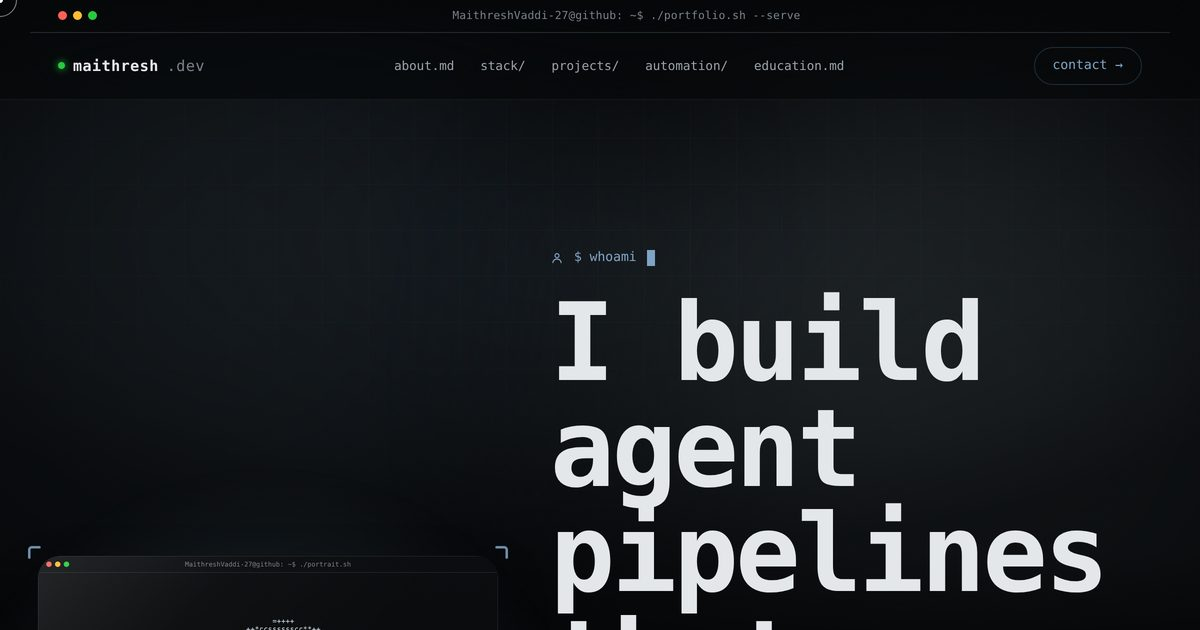
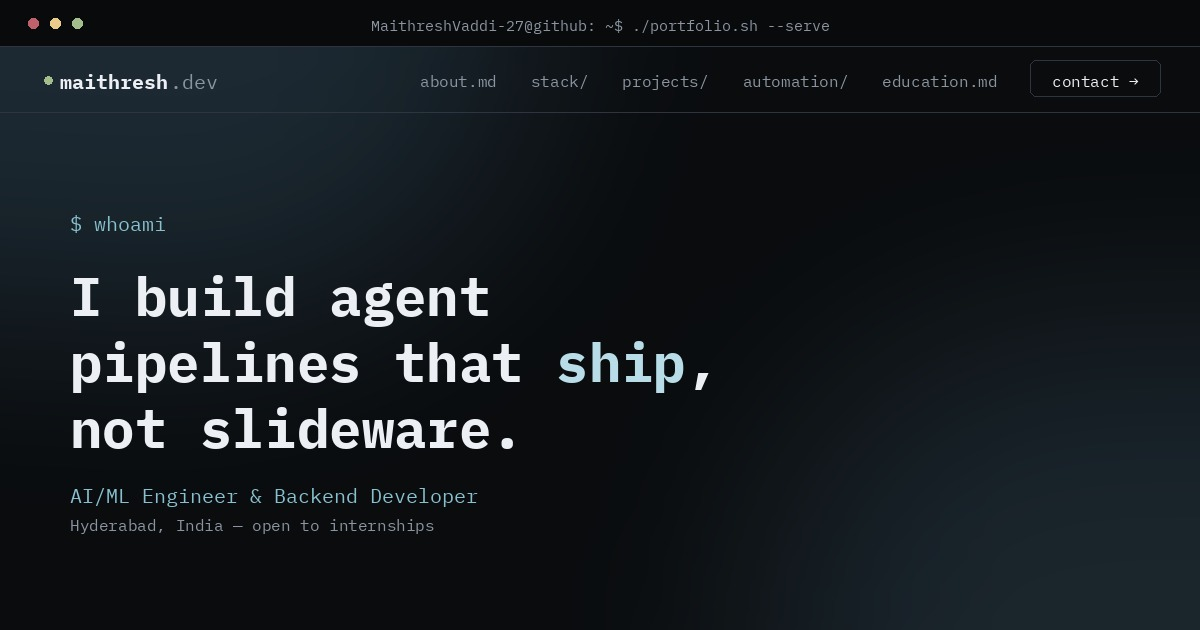
Cleaned and Refined

diff --git a/index.html b/index.html
@@ -19,7 +19,7 @@
 <meta name="twitter:title" content="Maithresh Vaddi — AI/ML Engineer & Backend Developer">
 <meta name="twitter:description" content="RAG reliability pipelines, MCP tool-orchestration agents, and automation platforms — solo-built, production-minded.">
 <meta name="twitter:image" content="https://maithreshvaddi-27.github.io/Maithresh.dev/assets/og-image.jpg">
-<meta name="theme-color" content="#050607">
+<meta name="theme-color" content="#0a0c0e">
 
 <script type="application/ld+json">
 {
@@ -256,71 +256,71 @@
                   <svg viewBox="0 0 260 500" role="img" aria-label="TrustRAG reliability pipeline: query goes through hybrid retrieval, grounded generation, and claim verification; if the reliability score fails threshold, one bounded recovery round runs before falling back to an explicit abstain.">
                     <style>
                       .pd-t{ font-family:'JetBrains Mono', ui-monospace, monospace; }
-                      .pd-label{ font-size:9.5px; font-weight:600; fill:#e6edf3; letter-spacing:.2px; }
-                      .pd-sub{ font-size:7.6px; fill:#78808a; }
-                      .pd-tiny{ font-size:6.8px; fill:#78808a; }
+                      .pd-label{ font-size:9.5px; font-weight:600; fill:#eceff4; letter-spacing:.2px; }
+                      .pd-sub{ font-size:7.6px; fill:#8b95a1; }
+                      .pd-tiny{ font-size:6.8px; fill:#8b95a1; }
                     </style>
                     <defs>
                       <marker id="pdArrow" viewBox="0 0 8 8" refX="6" refY="4" markerWidth="6" markerHeight="6" orient="auto-start-reverse">
-                        <path d="M0,0 L8,4 L0,8 Z" fill="#3a4451"/>
+                        <path d="M0,0 L8,4 L0,8 Z" fill="#4c566a"/>
                       </marker>
                     </defs>
                 
                     <!-- query -->
-                    <rect x="85" y="8" width="90" height="26" rx="13" fill="none" stroke="#2a323d"/>
+                    <rect x="85" y="8" width="90" height="26" rx="13" fill="none" stroke="#2e3440"/>
                     <text x="130" y="25" text-anchor="middle" class="pd-t pd-label">QUERY</text>
-                    <line x1="130" y1="34" x2="130" y2="56" stroke="#3a4451" marker-end="url(#pdArrow)"/>
+                    <line x1="130" y1="34" x2="130" y2="56" stroke="#4c566a" marker-end="url(#pdArrow)"/>
                 
                     <!-- retrieve -->
-                    <rect x="20" y="58" width="220" height="54" rx="10" fill="rgba(143,176,207,0.10)" stroke="#8fb0cf" stroke-width="1.1"/>
+                    <rect x="20" y="58" width="220" height="54" rx="10" fill="rgba(136,192,208,0.10)" stroke="#88c0d0" stroke-width="1.1"/>
                     <text x="130" y="80" text-anchor="middle" class="pd-t pd-label">HYBRID RETRIEVE</text>
                     <text x="130" y="96" text-anchor="middle" class="pd-t pd-sub">dense BGE-small · BM25 · RRF fusion</text>
-                    <line x1="130" y1="112" x2="130" y2="136" stroke="#3a4451" marker-end="url(#pdArrow)"/>
+                    <line x1="130" y1="112" x2="130" y2="136" stroke="#4c566a" marker-end="url(#pdArrow)"/>
                 
                     <!-- generation -->
-                    <rect x="35" y="138" width="190" height="36" rx="8" fill="none" stroke="#2a323d"/>
+                    <rect x="35" y="138" width="190" height="36" rx="8" fill="none" stroke="#2e3440"/>
                     <text x="130" y="160" text-anchor="middle" class="pd-t pd-label">GROUNDED GENERATION</text>
-                    <line x1="130" y1="174" x2="130" y2="198" stroke="#3a4451" marker-end="url(#pdArrow)"/>
+                    <line x1="130" y1="174" x2="130" y2="198" stroke="#4c566a" marker-end="url(#pdArrow)"/>
                 
                     <!-- verify -->
-                    <rect x="14" y="200" width="232" height="60" rx="10" fill="rgba(199,226,244,0.10)" stroke="#c7e2f4" stroke-width="1.1"/>
+                    <rect x="14" y="200" width="232" height="60" rx="10" fill="rgba(184,221,232,0.10)" stroke="#b8dde8" stroke-width="1.1"/>
                     <text x="130" y="221" text-anchor="middle" class="pd-t pd-label">CLAIM DECOMPOSITION + NLI</text>
                     <text x="130" y="235" text-anchor="middle" class="pd-t pd-sub">fused in one call, not two passes</text>
                     <text x="130" y="250" text-anchor="middle" class="pd-t pd-tiny">SHA-256 · temporal-window evidence audit</text>
-                    <line x1="130" y1="260" x2="130" y2="284" stroke="#3a4451" marker-end="url(#pdArrow)"/>
+                    <line x1="130" y1="260" x2="130" y2="284" stroke="#4c566a" marker-end="url(#pdArrow)"/>
                 
                     <!-- decision diamond -->
-                    <polygon points="130,286 206,320 130,354 54,320" fill="rgba(255,255,255,0.03)" stroke="#4a5462" stroke-width="1.1"/>
+                    <polygon points="130,286 206,320 130,354 54,320" fill="rgba(255,255,255,0.03)" stroke="#5e6779" stroke-width="1.1"/>
                     <text x="130" y="317" text-anchor="middle" class="pd-t pd-label" style="font-size:8.6px;">SCORE ≥ τ ?</text>
                     <text x="130" y="329" text-anchor="middle" class="pd-t pd-tiny">reliability threshold</text>
                 
                     <!-- no branch -> recovery -->
-                    <path d="M54,320 Q38,348 65,372" fill="none" stroke="#3a4451" marker-end="url(#pdArrow)"/>
-                    <text x="34" y="352" class="pd-t pd-tiny" fill="#ffbd2e">no</text>
+                    <path d="M54,320 Q38,348 65,372" fill="none" stroke="#4c566a" marker-end="url(#pdArrow)"/>
+                    <text x="34" y="352" class="pd-t pd-tiny" fill="#ebcb8b">no</text>
                 
                     <!-- yes branch -> answer -->
-                    <path d="M206,320 Q222,348 195,372" fill="none" stroke="#3a4451" marker-end="url(#pdArrow)"/>
-                    <text x="204" y="352" class="pd-t pd-tiny" fill="#27c93f">yes</text>
+                    <path d="M206,320 Q222,348 195,372" fill="none" stroke="#4c566a" marker-end="url(#pdArrow)"/>
+                    <text x="204" y="352" class="pd-t pd-tiny" fill="#a3be8c">yes</text>
                 
                     <!-- recovery box -->
-                    <rect x="10" y="374" width="110" height="52" rx="10" fill="rgba(255,189,46,0.07)" stroke="#ffbd2e" stroke-width="1.1"/>
+                    <rect x="10" y="374" width="110" height="52" rx="10" fill="rgba(235,203,139,0.07)" stroke="#ebcb8b" stroke-width="1.1"/>
                     <text x="65" y="393" text-anchor="middle" class="pd-t pd-label" style="font-size:8.6px;">BOUNDED RECOVERY</text>
                     <text x="65" y="406" text-anchor="middle" class="pd-t pd-tiny">rewrite · re-retrieve · regen</text>
-                    <text x="65" y="418" text-anchor="middle" class="pd-t pd-tiny" fill="#ffbd2e">× 1 round max</text>
+                    <text x="65" y="418" text-anchor="middle" class="pd-t pd-tiny" fill="#ebcb8b">× 1 round max</text>
                 
                     <!-- answer box -->
-                    <rect x="140" y="374" width="110" height="52" rx="10" fill="rgba(39,201,63,0.07)" stroke="#27c93f" stroke-width="1.1"/>
+                    <rect x="140" y="374" width="110" height="52" rx="10" fill="rgba(163,190,140,0.07)" stroke="#a3be8c" stroke-width="1.1"/>
                     <text x="195" y="396" text-anchor="middle" class="pd-t pd-label" style="font-size:8.6px;">GROUNDED ANSWER</text>
                     <text x="195" y="410" text-anchor="middle" class="pd-t pd-tiny">cited · verified</text>
                 
                     <!-- loop back: recovery -> retrieve (bounded retry) -->
-                    <path d="M120,388 C 254,388 254,86 242,86" fill="none" stroke="#4a5462" stroke-dasharray="2.5 3" marker-end="url(#pdArrow)"/>
+                    <path d="M120,388 C 254,388 254,86 242,86" fill="none" stroke="#5e6779" stroke-dasharray="2.5 3" marker-end="url(#pdArrow)"/>
                     <text x="256" y="240" text-anchor="middle" class="pd-t pd-tiny" transform="rotate(90 256 240)">retries once, then falls through</text>
                 
                     <!-- recovery -> abstain -->
-                    <line x1="65" y1="426" x2="65" y2="446" stroke="#3a4451" marker-end="url(#pdArrow)"/>
-                    <rect x="10" y="448" width="110" height="34" rx="8" fill="rgba(255,95,86,0.07)" stroke="#ff5f56" stroke-width="1.1"/>
-                    <text x="65" y="468" text-anchor="middle" class="pd-t pd-label" style="font-size:8.6px; fill:#ff9a92;">ABSTAIN</text>
+                    <line x1="65" y1="426" x2="65" y2="446" stroke="#4c566a" marker-end="url(#pdArrow)"/>
+                    <rect x="10" y="448" width="110" height="34" rx="8" fill="rgba(191,97,106,0.07)" stroke="#bf616a" stroke-width="1.1"/>
+                    <text x="65" y="468" text-anchor="middle" class="pd-t pd-label" style="font-size:8.6px; fill:#d99aa0;">ABSTAIN</text>
                     <text x="65" y="490" text-anchor="middle" class="pd-t pd-tiny">explicit — never a guessed answer</text>
                   </svg>
                 </div>

diff --git a/css/style.css b/css/style.css
@@ -220,7 +220,7 @@
   .cursor-ring{
     width:34px; height:34px; border: 1px solid rgba(255,255,255,0.5);
     mix-blend-mode: difference;
-    transition: opacity 0.2s ease, width 0.3s cubic-bezier(.16,1,.3,1), height 0.3s cubic-bezier(.16,1,.3,1);
+    transition: opacity 0.2s ease, width 0.3s var(--ease-out), height 0.3s var(--ease-out);
   }
   .cursor-ring.hover{
     width: 46px; height:46px; background: rgba(255,255,255,0.12); border-color: #fff;
@@ -242,7 +242,7 @@
     --cx: 0px; --cy: 0px;
     opacity: 0;
     transform: translate(var(--cx), var(--cy)) translate(-50%,-50%) scale(0.6);
-    transition: opacity 0.3s ease, transform 0.35s cubic-bezier(.16,1,.3,1);
+    transition: opacity 0.3s ease, transform 0.35s var(--ease-out);
   }
   .cursor-label.show{
     opacity: 1;
@@ -359,7 +359,7 @@
   .navlinks a::after{
     content:''; position:absolute; left:0; right:0; bottom:-4px; height:1px;
     background: linear-gradient(90deg, var(--accent), var(--accent-bright));
-    transform: scaleX(0); transform-origin: left; transition: transform 0.3s cubic-bezier(.16,1,.3,1);
+    transform: scaleX(0); transform-origin: left; transition: transform 0.3s var(--ease-out);
   }
   .navlinks a:hover{ color: #fff; }
   .navlinks a:hover::after{ transform: scaleX(1); }
@@ -390,7 +390,8 @@
 
   .nav-toggle{
     display:none; flex-direction:column; justify-content:center; gap:5px;
-    width: 30px; height: 30px; background:none; border:none; padding:0;
+    width: 44px; height: 44px; padding: 7px; box-sizing: border-box;
+    background:none; border:none;
   }
   .nav-toggle span{
     display:block; width: 100%; height: 1.5px; background: var(--text);
@@ -422,7 +423,7 @@
      budget the WebGL scene is already using. */
   .bg-aurora{
     position: fixed; inset:0; z-index:-1; overflow:hidden; pointer-events:none;
-    transition: transform 0.6s cubic-bezier(.16,1,.3,1); will-change: transform;
+    transition: transform 0.6s var(--ease-out); will-change: transform;
   }
   .bg-aurora span{
     position:absolute; width:58vw; height:58vw; max-width:820px; max-height:820px;
@@ -545,7 +546,7 @@
     font-family: var(--font-display); font-weight: 700;
     font-size: clamp(2.7rem, 8.2vw, 6.1rem); line-height: 0.99; letter-spacing: -0.03em;
     max-width: 920px;
-    opacity:0; animation: fadeUp 0.8s cubic-bezier(.16,1,.3,1) 0.35s forwards;
+    opacity:0; animation: fadeUp 0.8s var(--ease-out) 0.35s forwards;
   }
   h1 span{
     background: linear-gradient(100deg, var(--accent) 10%, var(--accent-bright) 90%);
@@ -603,7 +604,7 @@
   .btn::before{
     content:''; position:absolute; inset:0; z-index:-1;
     background: linear-gradient(100deg, var(--accent), var(--accent-bright));
-    transform: translateX(-101%); transition: transform 0.4s cubic-bezier(.65,0,.35,1);
+    transform: translateX(-101%); transition: transform 0.4s var(--ease-in-out);
   }
   .btn-primary{ background: var(--accent); color: #05070c; font-weight: 600; }
   .btn-primary:hover{ box-shadow: 0 0 32px rgba(143,176,207,0.45); }
@@ -669,7 +670,7 @@
   }
   .section-sub{ color: var(--text-mute); margin-top: 14px; font-size: 1rem; max-width: 560px; }
 
-  .reveal{ opacity:0; transform: translateY(26px) scale(0.98); filter: blur(4px); transition: opacity 0.8s cubic-bezier(.16,1,.3,1), transform 0.8s cubic-bezier(.16,1,.3,1), filter 0.8s ease; }
+  .reveal{ opacity:0; transform: translateY(26px) scale(0.98); filter: blur(4px); transition: opacity 0.8s var(--ease-out), transform 0.8s var(--ease-out), filter 0.8s ease; }
   .reveal.in{ opacity:1; transform: translateY(0) scale(1); filter: blur(0); }
 
   /* ── ABOUT ───────────────────────────────────────────── */
@@ -794,7 +795,7 @@
   .chip{
     font-family: var(--font-mono); font-size: 12px; color: var(--text-mute);
     background: var(--surface-2); border: 1px solid var(--line); padding: 6px 13px; border-radius: var(--radius-sm);
-    transition: transform 0.2s cubic-bezier(.16,1,.3,1), border-color 0.25s ease, color 0.25s ease, background-color 0.25s ease;
+    transition: transform 0.2s var(--ease-out), border-color 0.25s ease, color 0.25s ease, background-color 0.25s ease;
   }
   .chip:hover{ transform: translateY(-2px); border-color: var(--accent-dim); color: var(--accent-bright); background: rgba(143,176,207,0.1); }
   @media (prefers-reduced-motion: reduce){ .chip:hover{ transform:none; } }
@@ -823,7 +824,7 @@
        is now support for the hover, not the whole effect. */
     background: linear-gradient(100deg, rgba(143,176,207,0.16), rgba(143,176,207,0.06));
     transform: translateX(-101%);
-    transition: transform 0.55s cubic-bezier(.65,0,.35,1);
+    transition: transform 0.55s var(--ease-in-out);
   }
   .proj-row:hover::before, .proj-row:focus-visible::before{ transform: translateX(0); }
 
@@ -838,7 +839,7 @@
   .proj-row-title{
     font-family: var(--font-display); font-weight: 700;
     font-size: clamp(1.3rem, 3vw, 2.1rem); letter-spacing: -0.01em;
-    transition: transform 0.4s cubic-bezier(.16,1,.3,1), color 0.3s ease;
+    transition: transform 0.4s var(--ease-out), color 0.3s ease;
   }
   /* Letters are wrapped in spans by js/main.js on load, for the
      per-letter hover ripple — grouped one level up into per-word spans
@@ -894,7 +895,7 @@
   .proj-row-swatch{
     position:relative; z-index:1; width:52px; height:52px; border-radius: var(--radius-sm);
     flex-shrink:0; display:none; opacity:0; transform: scale(0.55) rotate(-10deg);
-    transition: opacity 0.4s cubic-bezier(.16,1,.3,1), transform 0.4s cubic-bezier(.16,1,.3,1);
+    transition: opacity 0.4s var(--ease-out), transform 0.4s var(--ease-out);
     box-shadow: 0 8px 24px -8px rgba(143,176,207,0.45);
     align-items:center; justify-content:center;
   }
@@ -937,7 +938,7 @@
   }
   .proj-stage-inner{
     opacity:1; transform: translateY(0) scale(1); filter: blur(0px);
-    transition: opacity 0.3s ease, transform 0.3s cubic-bezier(.16,1,.3,1), filter 0.3s ease;
+    transition: opacity 0.3s ease, transform 0.3s var(--ease-out), filter 0.3s ease;
   }
   .proj-stage-inner.swapping{ opacity:0; transform: translateY(8px) scale(0.985); filter: blur(3px); }
   .proj-stage .proj-desc{ color: rgba(238,240,242,0.92); }
@@ -969,7 +970,7 @@
     content:''; position:absolute; inset:0; z-index:1; pointer-events:none;
     background: var(--glass-sheen); background-size: 220% 220%; background-position: 0% 0%;
     border-radius: inherit;
-    transition: background-position 0.8s cubic-bezier(.16,1,.3,1);
+    transition: background-position 0.8s var(--ease-out);
   }
   .terminal:hover::after, .stack-card:hover::after, .group-card:hover::after, .ascii-card:hover::after{
     background-position: 55% 55%;
@@ -1025,7 +1026,7 @@
      itself spans the full wrap). One distinguishing icon per
      platform/format rather than a generic repeated bullet, so it
      also reinforces which of the four is which at a glance. */
-  .auto-icon{ width:26px; height:26px; color: var(--text-dim); justify-self:end; opacity:0.75; transition: color 0.3s ease, transform 0.3s cubic-bezier(.16,1,.3,1), opacity 0.3s ease; }
+  .auto-icon{ width:26px; height:26px; color: var(--text-dim); justify-self:end; opacity:0.75; transition: color 0.3s ease, transform 0.3s var(--ease-out), opacity 0.3s ease; }
   .auto-item:hover .auto-icon{ color: var(--accent); opacity:1; transform: scale(1.12) rotate(-4deg); }
   @media(max-width:700px){ .auto-icon{ display:none; } }
   @media (prefers-reduced-motion: reduce){ .auto-item:hover .auto-icon{ transform:none; } }

diff --git a/js/scene.js b/js/scene.js
@@ -55,11 +55,11 @@ function run() {
   // Telemetry accent. Varied by intensity/tone within one hue family
   // rather than a second competing color, same discipline as every
   // earlier palette this scene has worn.
-  const keyLight = new THREE.PointLight(0xc7e2f4, 15, 40, 2);
+  const keyLight = new THREE.PointLight(0xb8dde8, 15, 40, 2);
   keyLight.position.set(6, 6, 8);
   scene.add(keyLight);
 
-  const fillLight = new THREE.PointLight(0x8fb0cf, 7, 40, 2);
+  const fillLight = new THREE.PointLight(0x88c0d0, 7, 40, 2);
   fillLight.position.set(-7, 2, -4);
   scene.add(fillLight);
 
@@ -94,7 +94,7 @@ function run() {
   }
   particleGeo.setAttribute('position', new THREE.BufferAttribute(particlePos, 3));
   const particleMat = new THREE.PointsMaterial({
-    color: 0xc7e2f4, size: 0.05, transparent: true, opacity: 0.75,
+    color: 0xb8dde8, size: 0.05, transparent: true, opacity: 0.75,
     sizeAttenuation: true,
   });
   const particles = new THREE.Points(particleGeo, particleMat);
@@ -115,7 +115,7 @@ function run() {
   }
   sparkGeo.setAttribute('position', new THREE.BufferAttribute(sparkPos, 3));
   const sparkMat = new THREE.PointsMaterial({
-    color: 0x8fb0cf, size: 0.16, transparent: true, opacity: 0.9, sizeAttenuation: true,
+    color: 0x88c0d0, size: 0.16, transparent: true, opacity: 0.9, sizeAttenuation: true,
   });
   const sparks = new THREE.Points(sparkGeo, sparkMat);
   scene.add(sparks);
